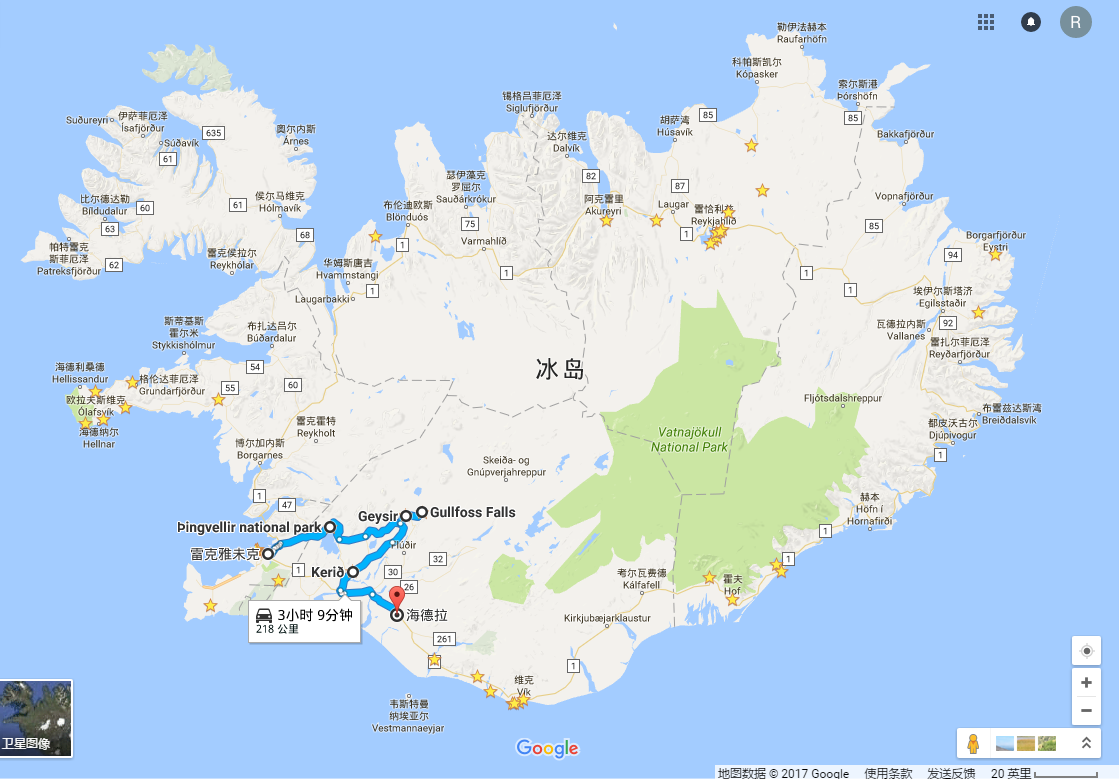
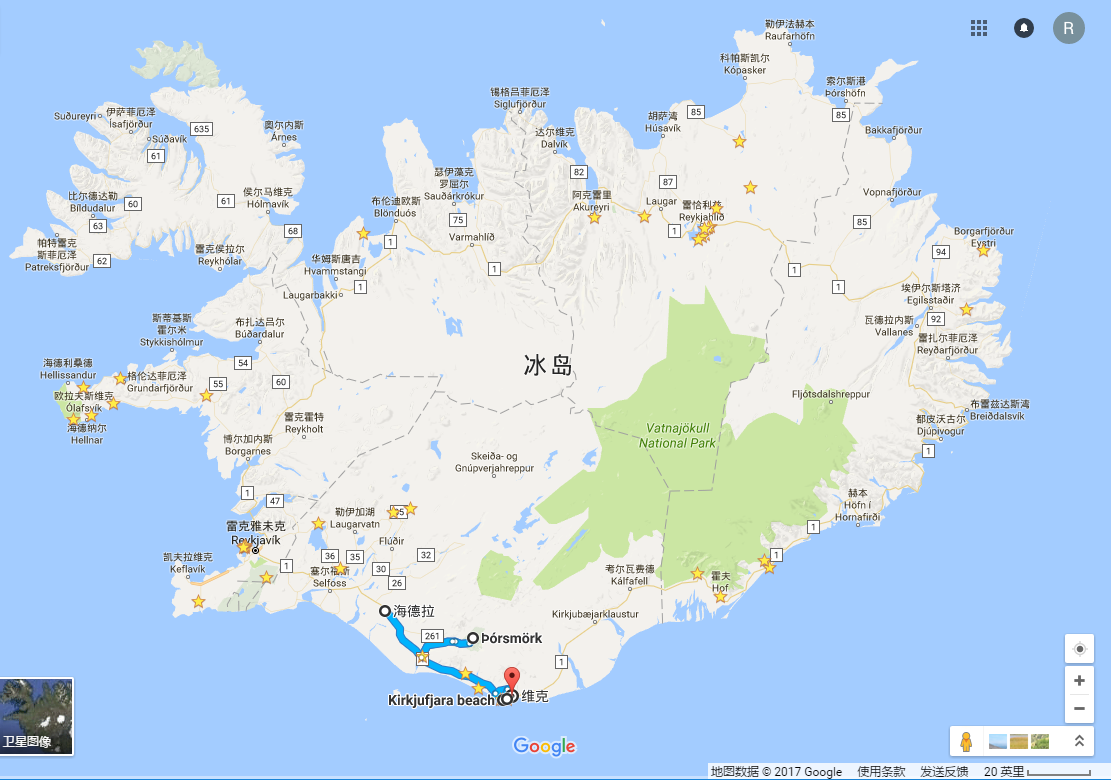
day 3 add Þórsmörk

diff --git a/README.md b/README.md
@@ -42,6 +42,10 @@ Hvolsvöllur
 
 ![day_3_map](https://github.com/RyanWestinLiu/iceland/raw/master/map/day_3.png)
 
+### Þórsmörk
+
+![Þórsmörk](https://upload.wikimedia.org/wikipedia/commons/thumb/c/c7/%C3%9E%C3%B3rsm%C3%B6rk.jpeg/1200px-%C3%9E%C3%B3rsm%C3%B6rk.jpeg)
+
 ### 塞里雅兰瀑布 - Seljalandsfoss
 1号公路旁，路过。
 
